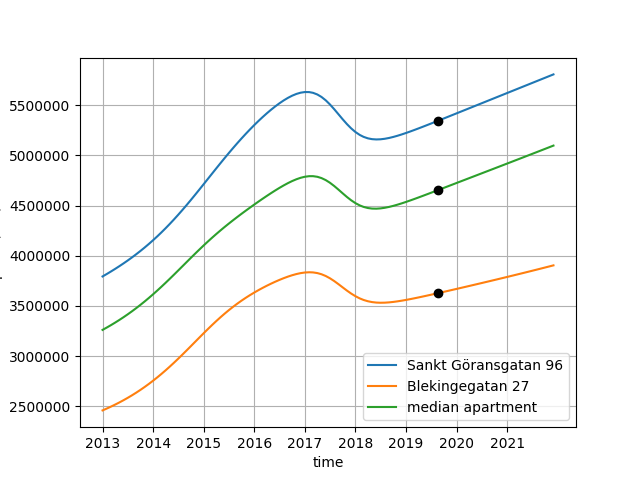
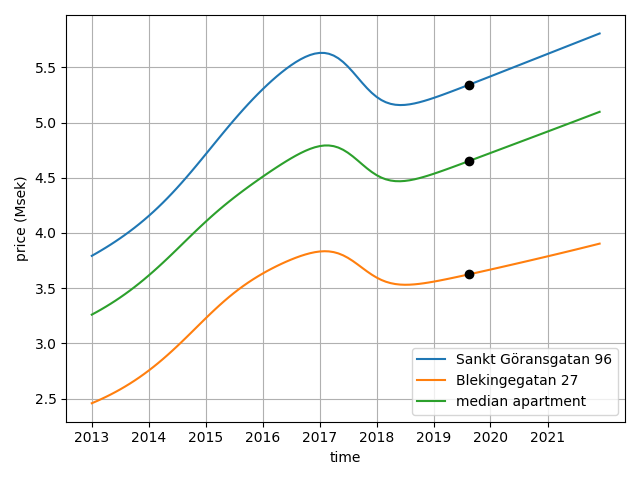
Updated figure presentation

diff --git a/use_model.py b/use_model.py
@@ -108,18 +108,18 @@ def main():
     # Plot prices
     plt.figure()
     for j, (label, apartment) in enumerate(apartments.items()):
-        plt.plot(times, prices[:,j], '-', label=label)
-        #plt.plot(times, prices[:,j]*np.max(prices[:,0])/np.max(prices[:,j]), '-', label=label)
+        plt.plot(times, prices[:,j]/10**6, '-', label=label)
         # Plot current price
         tmp = apartment.copy()
         time_stamp = datetime.now().timestamp()
         tmp[i] = time_stamp
-        plt.plot(time_stamp, model.predict(tmp), 'o', color='k')
+        plt.plot(time_stamp, model.predict(tmp)/10**6, 'o', color='k')
     plt.xlabel('time')
-    plt.ylabel('price (sek)')
+    plt.ylabel('price (Msek)')
     plt.xticks([time_stuff.get_time_stamp(year, 1, 1) for year in years], years)
     plt.grid()
-    plt.legend(loc=0)
+    plt.legend()
+    plt.tight_layout()
     plt.savefig('figures/time_evolve_new.pdf')
     plt.savefig('figures/time_evolve_new.png')
     plt.show()
